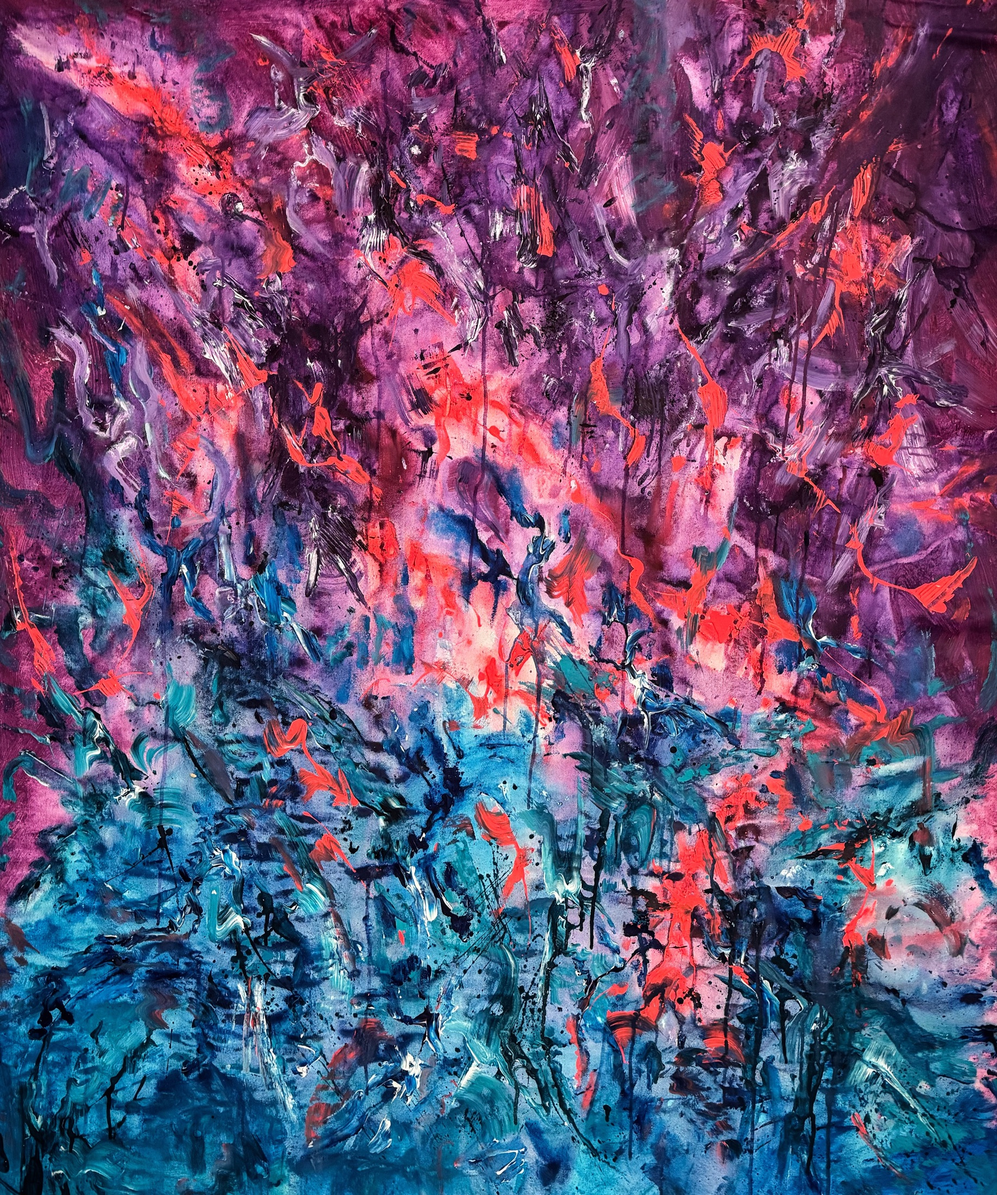
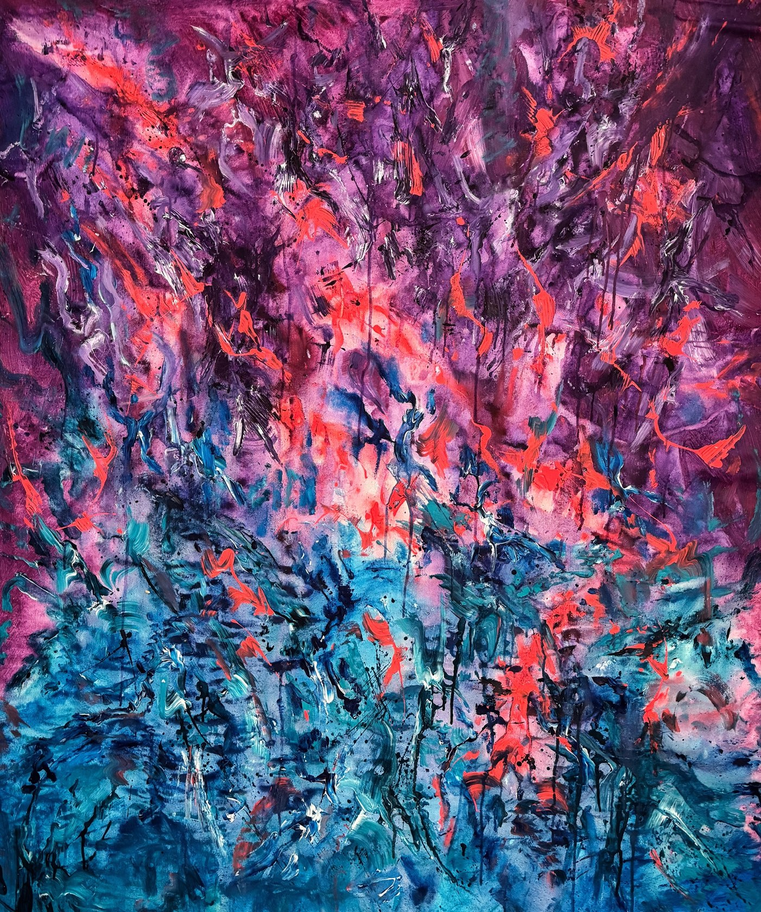
perf: 65% smaller artworks, hard image caching, lazy preloading — and text-only credit
Artworks recompressed (8.6 MB -> 3.0 MB, hero re-derived from the
original at 1680px), /artworks served with a 7-day immutable cache
while HTML/CSS/JS stay uncached, the phone now preloads only the
current work and its neighbours, and the window warms the playlist
after first paint. The UAC credit is text-only until the original
badge artwork is provided (recreation removed on request).

diff --git a/public/control/control.js b/public/control/control.js
@@ -117,10 +117,25 @@
     }
   }
 
+  const preloaded = new Set();
+
+  function preloadAround(i) {
+    const n = artworks.length;
+    for (const k of [i, i + 1, i - 1]) {
+      const a = artworks[((k % n) + n) % n];
+      if (a && !preloaded.has(a.id)) {
+        preloaded.add(a.id);
+        const im = new Image();
+        im.src = a.image;
+      }
+    }
+  }
+
   function renderArtwork(i, { silent } = {}) {
     if (!artworks.length) return;
     index = ((i % artworks.length) + artworks.length) % artworks.length;
     const a = artwork();
+    preloadAround(index);
 
     el.artImg.classList.add('fading');
     const pre = new Image();
@@ -507,11 +522,6 @@
 
     document.title = `${config.gallery} — You're in control`;
     el.brand.textContent = config.gallery;
-
-    artworks.forEach((a) => {
-      const pre = new Image();
-      pre.src = a.image;
-    });
 
     const requested = params.get('art');
     const startIndex = Math.max(

diff --git a/server/index.js b/server/index.js
@@ -240,8 +240,9 @@ const server = http.createServer(app);
 app.use(express.json({ limit: '64kb' }));
 app.use(express.text({ type: ['text/*'], limit: '64kb' })); // sendBeacon fallback
 
-// no HTTP caching while the product iterates — a kiosk deployment can
-// raise this again (assets are LAN-local anyway)
+// artworks are immutable-ish and heavy — cache them hard; everything else
+// (HTML/CSS/JS, all tiny) stays uncached while the product iterates
+app.use('/artworks', express.static(path.join(ROOT, 'public', 'artworks'), { maxAge: '7d', immutable: true }));
 app.use(express.static(path.join(ROOT, 'public'), { maxAge: 0, index: false }));
 
 app.get('/', (_req, res) => res.sendFile(path.join(ROOT, 'public', 'index.html')));

diff --git a/public/screen/screen.css b/public/screen/screen.css
@@ -373,12 +373,9 @@ body {
   z-index: 7; /* stays visible on the CTA interstitial */
 }
 
-.screen-credit img {
-  width: 30px;
-  height: 30px;
-}
-
-/* narrow windows: reduce the top line gracefully */
+/* narrow windows: reduce the top line gracefully
+   (the window app targets large landscape displays; below that the
+   credit yields to brand + index) */
 
 @media (max-width: 1199px) {
   .brand-sub {
@@ -386,8 +383,8 @@ body {
   }
 }
 
-@media (max-width: 899px) {
-  .screen-credit span {
+@media (max-width: 999px) {
+  .screen-credit {
     display: none;
   }
 }

diff --git a/public/screen/screen.js b/public/screen/screen.js
@@ -187,10 +187,13 @@
     el.qrImg.src = `/qr/${encodeURIComponent(screenId)}.svg`;
     el.qrImgLarge.src = `/qr/${encodeURIComponent(screenId)}.svg`;
 
-    artworks.forEach((a) => {
-      const pre = new Image();
-      pre.src = a.image;
-    });
+    // warm the full playlist only after the first work is on stage
+    setTimeout(() => {
+      artworks.forEach((a) => {
+        const pre = new Image();
+        pre.src = a.image;
+      });
+    }, 1500);
 
     setArtwork(artworks[0], 0);
     connect();

diff --git a/public/shared.css b/public/shared.css
@@ -116,17 +116,13 @@ a {
   animation: pulse 2.4s ease-in-out infinite;
 }
 
-/* product credit — Ein Produkt by Urban Artist Club */
+/* product credit — Ein Produkt by Urban Artist Club
+   (text only until the original UAC badge artwork lands) */
 
 .product-credit {
   display: flex;
   align-items: center;
   gap: 11px;
-}
-
-.product-credit img {
-  width: 27px;
-  height: 27px;
 }
 
 .product-credit span {

diff --git a/public/control/index.html b/public/control/index.html
@@ -105,7 +105,6 @@
       <p class="foot-claim">Public screen. Private control.</p>
       <p class="foot-note">Your actions stay on your phone. Only the artwork appears on the window.</p>
       <div class="product-credit foot-credit">
-        <img src="/uac-badge.svg?v=2" alt="Urban Artist Club" />
         <span>Ein Produkt by Urban Artist Club</span>
       </div>
     </footer>

diff --git a/public/index.html b/public/index.html
@@ -116,7 +116,6 @@
 
   <footer>
     <div class="product-credit">
-      <img src="/uac-badge.svg?v=2" alt="Urban Artist Club" />
       <span>Ein Produkt by Urban Artist Club</span>
     </div>
     <span>Prototype · no accounts, no tracking beyond the event log</span>

diff --git a/public/screen/index.html b/public/screen/index.html
@@ -70,7 +70,6 @@
 
     <!-- product credit -->
     <div class="product-credit screen-credit">
-      <img src="/uac-badge.svg?v=2" alt="Urban Artist Club" />
       <span>Ein Produkt by Urban Artist Club</span>
     </div>
 
